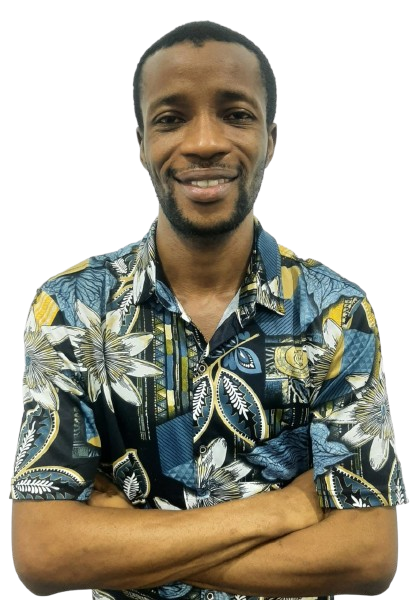
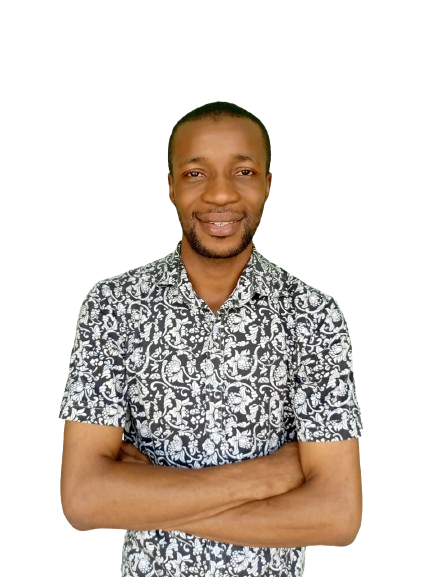
patch

diff --git a/src/components/about/About.jsx b/src/components/about/About.jsx
@@ -143,7 +143,7 @@ const About = () => {
        <div className="row spacer">
          <div className="col-xl-4 col-lg-5">
            <div className="img-container">
-            {/* <img className='owner' src='/img/about/owner-5.png' /> */}
+            <img className='owner' src='/img/about/owner-5.png' />
             <p className='owner-desc'></p>
            </div>
          </div>
@@ -158,7 +158,7 @@ const About = () => {
        <div className="row spacer">
          <div className="col-xl-4 col-lg-5">
            <div className="img-container">
-            {/* <img className='owner' src='/img/about/owner-6.png' /> */}
+            <img className='owner' src='/img/about/owner-6.png' />
             <p className='owner-desc'></p>
            </div>
          </div>
